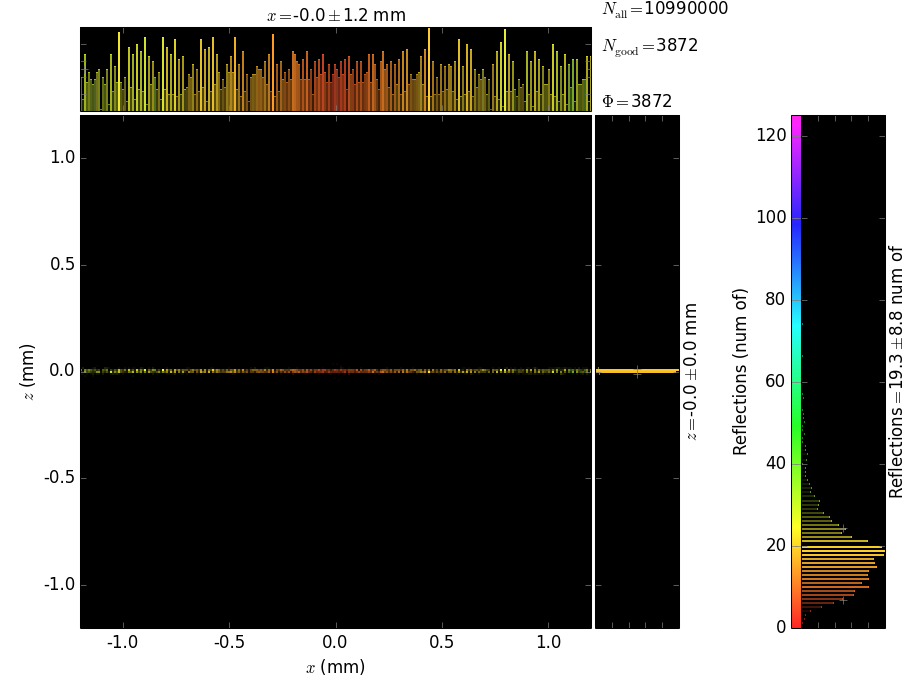
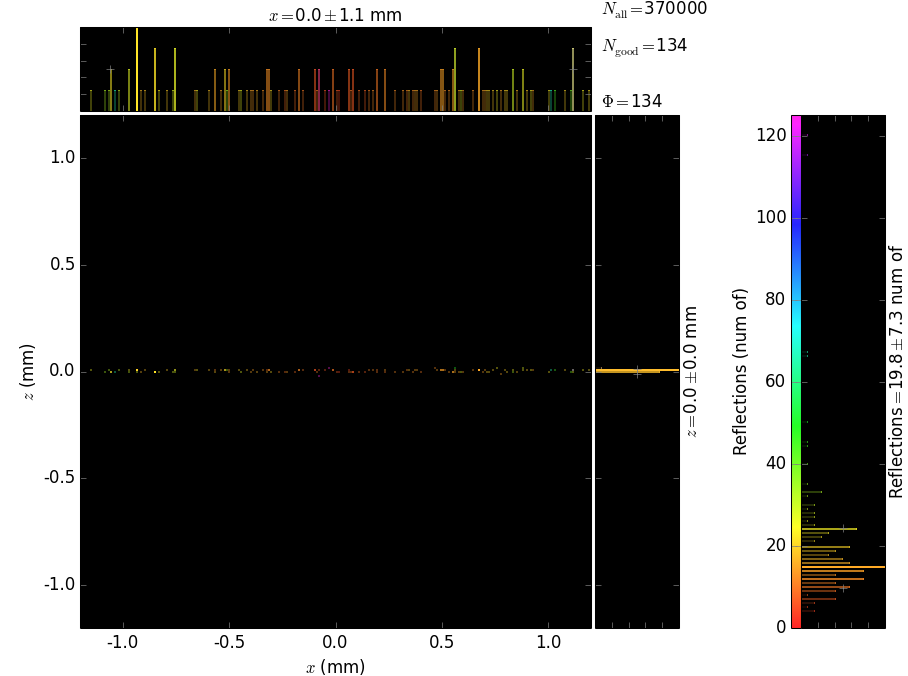
Add: creating plots outside the main function | DEBUG
- 60x0.01 1D line lens
- constant capillary radius
- f1 = 40, L = 100, f2 = 15 [mm]
- Din = 4.5, Dout = 2.4, Dmax = 8 [mm]

diff --git a/realisticPolycapillary.py b/realisticPolycapillary.py
@@ -7,6 +7,7 @@ import matplotlib as mpl
 import matplotlib.pyplot as plt
 
 from PlotMono import plot2D
+from screening import *
 
 import xrt.backends.raycing as raycing
 import xrt.backends.raycing.sources as rs
@@ -102,8 +103,10 @@ def build_beamline(nrays=1e4):
     beamLine.y1 = y1
     beamLine.y2 = y2
     beamLine.yf = yf
-    beamLine.hMax = hMax
-    beamLine.h1 = Din/2
+    beamLine.hMax   = hMax
+    beamLine.h1     = Din/2
+    beamLine.Dout   = Dout
+    beamLine.nRefl  = nRefl
 
     rs.GeometricSource(
         beamLine,'GeometricSource',(0,0,0), nrays=nrays,
@@ -125,10 +128,11 @@ def build_beamline(nrays=1e4):
                 rIn=rIn, curveCoeffs=p, y2=y2)
         capillary.h_in = h_in
         beamLine.capillaries.append(capillary)
-        print 'h_in:', h_in, ' h_out:', h_in*Dout/Din
+#        print 'h_in:', h_in, ' h_out:', h_in*Dout/Din
 
     beamLine.exitScreen = rsc.Screen(beamLine,'ExitScreen', (0,y2,0))
 
+    createScreens(beamLine,[y2, yf, (y2+yf)/2, yf + (yf-y2)])
     return beamLine
 
 
@@ -162,6 +166,8 @@ def run_process(beamLine, shineOnly1stSource=False):
     # See them on screen 
     ExitScreen = beamLine.exitScreen.expose(beamCapillaryGlobalTotal)
     outDict['ExitScreen'] = ExitScreen
+    outDict.update(exposeScreens(beamLine, beamCapillaryGlobalTotal))
+    print outDict.keys()
 
     return outDict
 
@@ -177,16 +183,24 @@ def main():
     xLimits = [-Dout/2, Dout/2]
     zLimits = xLimits #[-3*rIn, 3*rIn]
     plot = xrtp.XYCPlot('ExitScreen', (1,),
-        xaxis=xrtp.XYCAxis(r"$x$", 'mm', data=raycing.get_x, bins=256, ppb=2, limits=xLimits),
-        yaxis=xrtp.XYCAxis(r"$z$", 'mm', data=raycing.get_z, bins=256, ppb=2, limits=zLimits),
-#        caxis='category', 
-        caxis=xrtp.XYCAxis("Reflections", 'num of',data=raycing.get_reflection_number, bins=256, ppb=2, limits=[0, nRefl]),
+        xaxis=xrtp.XYCAxis(r"$x$", 'mm', data=raycing.get_x,\
+                bins=256, ppb=2, limits=xLimits),
+        yaxis=xrtp.XYCAxis(r"$z$", 'mm', data=raycing.get_z,\
+                bins=256, ppb=2, limits=zLimits),
+        caxis=xrtp.XYCAxis("Reflections", 'num of',\
+                data=raycing.get_reflection_number,\
+                bins=256, ppb=2, limits=[0, nRefl]),
         beamState='ExitScreen', title='Detector at exit', aspect='auto',
         persistentName=None)
     plot.baseName = 'Detector_at_' + str(y2)
     plot.saveName = 'png/' + plot.baseName + '.png'
     plots.append(plot)
 
+    # Add plots with clever outside function:
+    plots = plots + createPlots(beamLine)
+#    for plott in plots:
+#        print 'name: ' + plott.beam
+    print 'plots size: ' + str(len(plots))
     xrtr.run_ray_tracing(plots, repeats=repeats, beamLine=beamLine, processes=1)
 
 #    return beamLine

diff --git a/screens.py b/screens.py
@@ -1,0 +1,60 @@
+"""
+This will help manage multiple screens/plots without
+overgarbagin the main code
+"""
+import xrt.backends.raycing.screens as rsc
+#import xrt.backends.raycing.run as rr
+import xrt.backends.raycing as raycing
+import xrt.plotter as xrtp
+
+# Insert screens in build_beamline() function
+# Usage: beamLine.myScreens = screens.createScreens()
+# p_range = min, max
+# N = number of screens spanned on that distance
+
+def createScreens(beamLine, ranges):
+    screens = {}
+    for it in ranges:
+        screen = rsc.Screen(beamLine,'Screen_at_'+str(it), (0,it,0))
+        screens[it] = screen
+        print 'Screen at ' + str(it)
+    # Save ranges as beamline property, no need to keep globally
+    beamLine.s_ranges = ranges
+    beamLine.screens  = screens
+
+# Next screens need to be exposed in run_process and
+# dictionary must be prepared
+def exposeScreens(beamLine, beamToBeSeen):
+    partDict = {}
+    for it in beamLine.s_ranges:
+        partDict['Screen_at_'+str(it)] =\
+                beamLine.screens[it].expose(beamToBeSeen)
+    return partDict
+
+# Prepare plots for raycing
+def createPlots(beamLine):
+    xLimits = [-beamLine.Dout/1.9, beamLine.Dout/1.9]
+    zLimits = xLimits
+    cLimits = [0, beamLine.nRefl]
+    plots = []
+    for it in beamLine.s_ranges:
+        print 'current range: ' + str(it)
+        print 'Screen_at_'+str(it)
+        name = 'Screen_at::'+str(it)
+        plot = xrtp.XYCPlot('Screen_at_'+str(it), (1,),
+            xaxis=xrtp.XYCAxis(r'$x$', 'mm', data=raycing.get_x,\
+                    bins=256, ppb=2, limits=xLimits),
+            yaxis=xrtp.XYCAxis(r'$z$', 'mm', data=raycing.get_z,\
+                    bins=256, ppb=2, limits=zLimits),
+            caxis=xrtp.XYCAxis('Reflections', 'number',\
+                    data=raycing.get_reflection_number,\
+                    bins=256, ppb=2, limits=cLimits),
+            beamState='Screen_at_'+str(it), title=name,\
+                    aspect='auto')
+        plot.baseName = name
+        plot.saveName = 'png/' + plot.baseName + '.png'
+#        plot.persistentName = 'pickle/' + plot.baseName + '.pickle'
+        plots.append(plot)
+    print 'leaving createPlots()'
+#    print plots[0].nRaysAlive
+    return plots

diff --git a/screening.py b/screening.py
@@ -1,0 +1,60 @@
+"""
+This will help manage multiple screens/plots without
+overgarbagin the main code
+"""
+import xrt.backends.raycing.screens as rsc
+#import xrt.backends.raycing.run as rr
+import xrt.backends.raycing as raycing
+import xrt.plotter as xrtp
+
+# Insert screens in build_beamline() function
+# Usage: beamLine.myScreens = screens.createScreens()
+# p_range = min, max
+# N = number of screens spanned on that distance
+
+def createScreens(beamLine, ranges):
+    screens = {}
+    for it in ranges:
+        screen = rsc.Screen(beamLine,'Screen_at_'+str(it), (0,it,0))
+        screens[it] = screen
+        print 'Screen at ' + str(it)
+    # Save ranges as beamline property, no need to keep globally
+    beamLine.s_ranges = ranges
+    beamLine.screens  = screens
+
+# Next screens need to be exposed in run_process and
+# dictionary must be prepared
+def exposeScreens(beamLine, beamToBeSeen):
+    partDict = {}
+    for it in beamLine.s_ranges:
+        partDict['Screen_at_'+str(int(it))] =\
+                beamLine.screens[it].expose(beamToBeSeen)
+    return partDict
+
+# Prepare plots for raycing
+def createPlots(beamLine):
+    xLimits = [-beamLine.Dout/1.9, beamLine.Dout/1.9]
+    zLimits = xLimits
+    cLimits = [0, beamLine.nRefl]
+    plots = []
+    for it in beamLine.s_ranges:
+        print 'current range: ' + str(it)
+        print 'Screen_at_'+str(it)
+        name = 'Screen_at_'+str(int(it))
+        plot = xrtp.XYCPlot(name, (1,),
+            xaxis=xrtp.XYCAxis(r'$x$', 'mm', data=raycing.get_x,\
+                    bins=256, ppb=2, limits=xLimits),
+            yaxis=xrtp.XYCAxis(r'$z$', 'mm', data=raycing.get_z,\
+                    bins=256, ppb=2, limits=zLimits),
+            caxis=xrtp.XYCAxis('Reflections', 'number',\
+                    data=raycing.get_reflection_number,\
+                    bins=256, ppb=2, limits=cLimits),
+            beamState=name, title=name,\
+                    aspect='auto')
+        plot.baseName = name
+        plot.saveName = 'png/' + plot.baseName + '.png'
+#        plot.persistentName = 'pickle/' + plot.baseName + '.pickle'
+        plots.append(plot)
+    print 'leaving createPlots()'
+#    print plots[0].nRaysAlive
+    return plots

diff --git a/simplfiedPolyCapillary.py b/simplfiedPolyCapillary.py
@@ -316,9 +316,9 @@ def main():
     # setting persistentName saves data into a python pickle, and might be
     # unhealthy if pickle isn't cleared/deleted when plotted data changes
     plot.baseName = 'Detector_at_' + str(f + 2*rSample)
-    plot.saveName = 'png/' + plot.baseName + '.png'    
+    plot.saveName = 'png/' + plot.baseName + '.png'
     plots.append(plot)
-    
+
     # ITERATING OVER PLOTS {}
     cLimits = [0, nRefl]
     for it in range(0,max_plots-2):
@@ -331,9 +331,9 @@ def main():
         plot.baseName = tmp_name
         plot.saveName = 'png/' + plot.baseName + '.png'
         plot.persistentName = 'pickle/' + plot.baseName + '.pickle'
-        plots.append(plot)    
+        plots.append(plot)
     xrtr.run_ray_tracing(plots, repeats=repeats, beamLine=beamLine, processes=7)
-    
+
     # savemat() takes a dict of names later loaded into matlab and objects
     # we want to save,
 #    scipy.io.savemat('Phase_xrt_data.mat',{'Phase_total2D_RGB':plots[0].total2D_RGB,
@@ -345,8 +345,8 @@ def main():
 #                                 'RSpace_caxis_total':plots[1].caxis.total1D,
 #                                 'RSpace_caxis_total_RGB':plots[1].caxis.total1D_RGB})                                 
     # just for debug x`
-    return plot                                 
-    
+    return plot
+
 if __name__ == '__main__':
 #    PlotMono.plot2D(build_beamline(),f)
     main()
